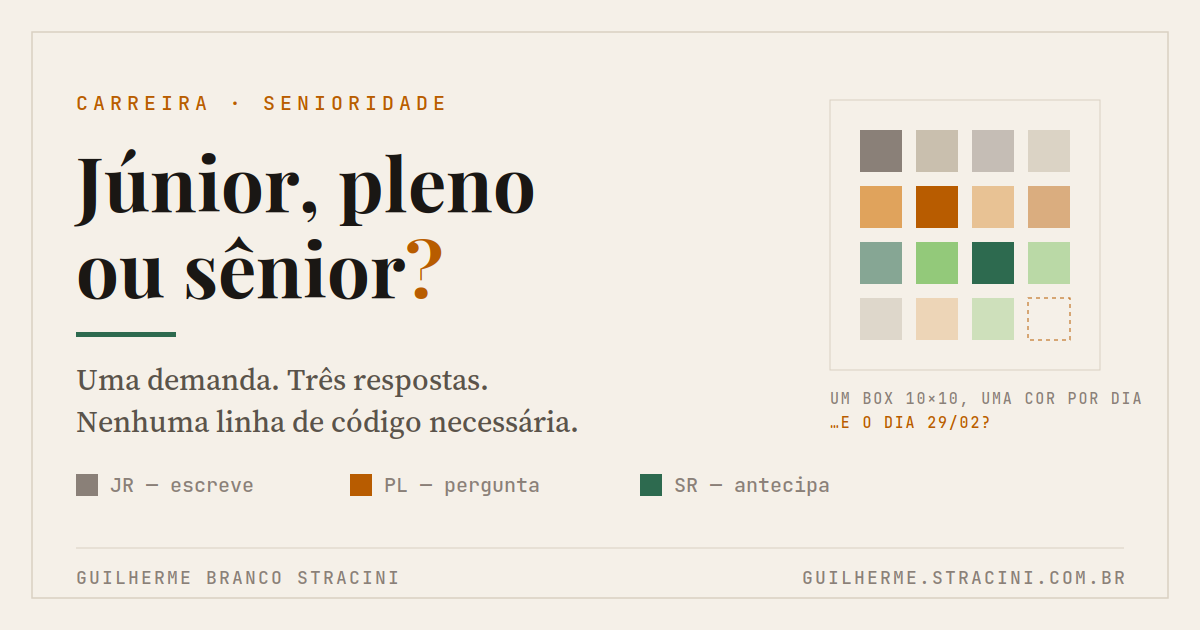
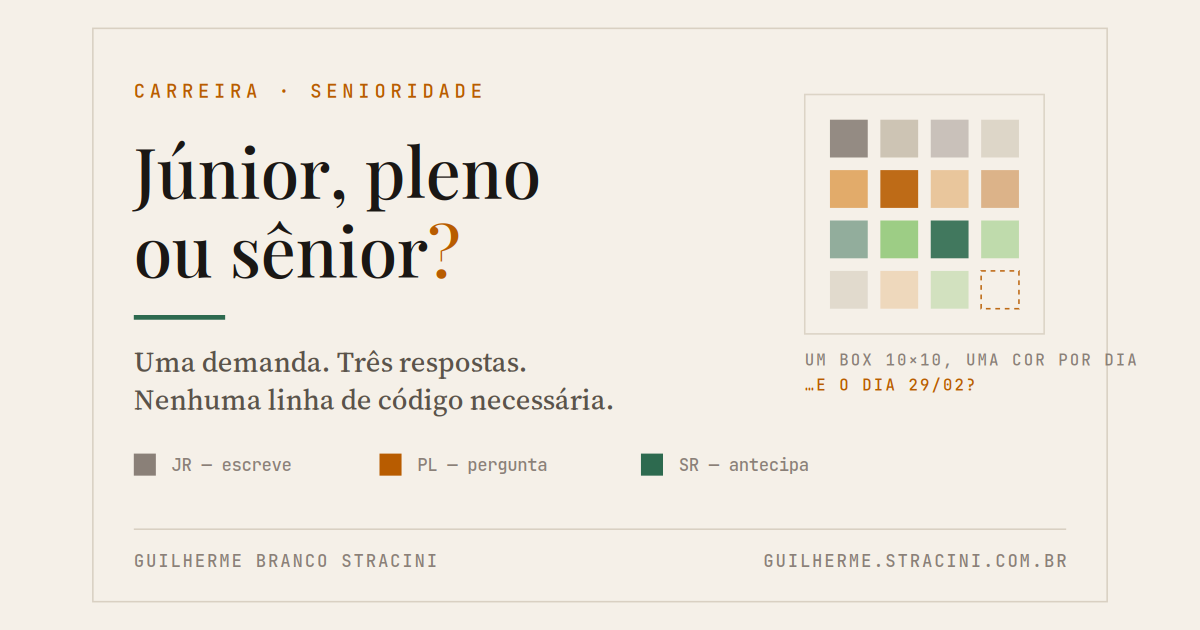
update: expand article with seniority bifurcation (#171)
* update: expand article with seniority bifurcation

Expand the existing article on distinguishing junior, mid-level,
and senior developers to include detailed information about
career paths beyond "senior." Introduce the concept of bifurcating
into individual contributor (IC) vs. management tracks, which
are often not clearly distinguished. Describe the progression
in each track, clarifying common industry titles and roles at
companies like Google and Amazon. Adjust the reading time
from 18 to 23 minutes to reflect the added content. Update
related images and infographics to align with new content,
ensuring clarity on the career pathway division. Include
additional references on tech career levels for further depth.

* refactor: clarify management path titles and responsibilities

Update several sections to better clarify the titles and
responsibilities within the engineering management (EM) path.
Adjust terms like "C-level" and define the scope of roles like
"VP of Engineering" and "Director of Engineering". Also, refine
the explanation for direct management entry in Brazil. These
changes improve the accuracy and readability of the paths
outlined, ensuring that they are more applicable across diverse
company structures. Additionally, update images to align with
textual content for a cohesive presentation.

* style: add Rouge syntax highlighting support

Enhance syntax highlighting by introducing styles for Markdown
[…]

diff --git a/assets/css/main.css b/assets/css/main.css
@@ -786,6 +786,56 @@ a.pagination-btn:hover { border-color: var(--accent); color: var(--accent); }
 .nu { color: #f78c6c; }
 .va { color: #eeffff; }
 
+/* Markdown fenced code blocks (kramdown + Rouge) */
+.article-inner .highlighter-rouge {
+  background: var(--code-bg);
+  border-radius: 10px;
+  overflow: hidden;
+  margin: 1.5rem 0;
+}
+.article-inner .highlighter-rouge .highlight {
+  overflow-x: auto;
+  margin: 0;
+}
+.article-inner .highlighter-rouge pre.highlight {
+  padding: 1.1rem 1.3rem;
+  margin: 0;
+  font-family: 'JetBrains Mono', monospace;
+  font-size: 0.78rem;
+  line-height: 1.65;
+  color: var(--code-text);
+}
+.article-inner .highlighter-rouge code { background: none; padding: 0; color: inherit; }
+
+/* Inline code */
+.article-inner code {
+  font-family: 'JetBrains Mono', monospace;
+  font-size: 0.85em;
+  background: var(--surface-warm);
+  color: var(--accent-warm);
+  padding: .15em .4em;
+  border-radius: 4px;
+}
+.article-inner pre code { background: none; padding: 0; color: inherit; border-radius: 0; }
+
+/* Rouge/Pygments token colors */
+.highlight .c, .highlight .c1, .highlight .cm, .highlight .cp, .highlight .cs { color: #546e7a; font-style: italic; }
+.highlight .k, .highlight .kc, .highlight .kd, .highlight .kn, .highlight .kp,
+.highlight .kr, .highlight .kt, .highlight .ow, .highlight .nt { color: #c792ea; }
+.highlight .nf, .highlight .nc, .highlight .nb, .highlight .bp, .highlight .nd { color: #82aaff; }
+.highlight .s, .highlight .s1, .highlight .s2, .highlight .sb, .highlight .sc,
+.highlight .sd, .highlight .se, .highlight .sh, .highlight .si, .highlight .sx,
+.highlight .sr, .highlight .ss, .highlight .na { color: #c3e88d; }
+.highlight .m, .highlight .mf, .highlight .mh, .highlight .mi, .highlight .mo,
+.highlight .il { color: #f78c6c; }
+.highlight .n, .highlight .nv, .highlight .vc, .highlight .vg, .highlight .vi,
+.highlight .no, .highlight .nl, .highlight .ni, .highlight .ne, .highlight .nn { color: #eeffff; }
+.highlight .o, .highlight .p { color: var(--code-text); }
+.highlight .err { color: #ff6b6b; }
+.highlight .gd { color: #ff6b6b; }
+.highlight .gi { color: #c3e88d; }
+.highlight .gh, .highlight .gu { color: #82aaff; font-weight: 700; }
+
 /* AT commands table */
 .at-table { width: 100%; border-collapse: collapse; margin: 1.5rem 0; font-size: 0.84rem; }
 .at-table th {

diff --git a/_posts/2026-08-30-junior-pleno-senior-diferencas-praticas-entrevista.md b/_posts/2026-08-30-junior-pleno-senior-diferencas-praticas-entrevista.md
@@ -436,7 +436,7 @@ Três leituras importam nesse desenho:
   </div>
   <div class="provider-card">
     <div class="provider-name">A entrada direta existe</div>
-    <div class="provider-detail">No Brasil é bem comum alguém entrar direto em gestão sem nunca ter sido IC. Funciona, mas cria um gestor que não consegue calibrar estimativa nem avaliar risco técnico — exatamente o que este artigo inteiro mede.</div>
+    <div class="provider-detail">No Brasil é bem comum alguém entrar direto em gestão sem nunca ter tido título de IC. Funciona bem em muita gente. O que pesa não é o título que a pessoa teve, e sim quanto contexto técnico ela consegue demonstrar — sem isso, calibrar estimativa e avaliar risco vira chute, tenha ela sido IC ou não.</div>
   </div>
 </div>
 
@@ -480,16 +480,18 @@ Três leituras importam nesse desenho:
     </tr>
   </thead>
   <tbody>
-    <tr><td>Coordenador / Tech Lead Manager</td><td>EM1</td><td>Engineering Manager</td><td>Um time</td></tr>
-    <tr><td>Gerente de Engenharia</td><td>EM2</td><td>Senior / Group EM</td><td>Gerentes e ICs sêniores</td></tr>
-    <tr><td>Diretor</td><td>EM3</td><td>Director of Engineering</td><td>Uma área inteira</td></tr>
-    <tr><td>VP / Diretoria executiva</td><td>EM4+</td><td>VP Eng, CTO, CIO, CISO, CDO</td><td>Empresa</td></tr>
+    <tr><td>Coordenador / Tech Lead Manager</td><td>EM1</td><td>Engineering Manager</td><td>Costuma ser um time</td></tr>
+    <tr><td>Gerente de Engenharia</td><td>EM2</td><td>Senior Engineering Manager</td><td>Um time grande ou alguns times</td></tr>
+    <tr><td>Gerente de grupo</td><td>EM2–EM3</td><td>Group Engineering Manager</td><td>Costuma incluir outros gerentes</td></tr>
+    <tr><td>Diretor de Engenharia</td><td>EM3</td><td>Director of Engineering</td><td>Uma ou mais áreas</td></tr>
+    <tr><td>VP de Engenharia</td><td>EM4+</td><td>VP Engineering, CTO</td><td>Toda a engenharia</td></tr>
+    <tr><td colspan="4"><em>Funções executivas vizinhas — <strong>não são degraus da escada de engenharia</strong>: CIO, CISO, CDO. São pares do CTO, com escopo próprio e linha de reporte que varia por empresa.</em></td></tr>
   </tbody>
 </table>
 
 <div class="callout callout-tip">
   <div class="callout-label">Sobre a nomenclatura em si</div>
-  As colunas "IC" e "EM" existem aqui para dar uma régua neutra — elas são convenção de mercado, não padrão oficial. Cada empresa usa a sua: L no Google, E na Meta, SDE na Amazon, ICT na Apple, números soltos na Microsoft. Se você está traduzindo seu currículo, o que importa é a <strong>coluna de escopo</strong>, não a sigla.
+  As colunas "IC" e "EM" existem aqui para dar uma régua neutra — elas são convenção de mercado, não padrão oficial. Cada empresa usa a sua: L no Google, E na Meta, SDE na Amazon, ICT na Apple, números soltos na Microsoft. A coluna de escopo também é <strong>indicativa, não fixa</strong> — o mesmo título de gestão cobre realidades bem diferentes conforme o tamanho da empresa. Se você está traduzindo seu currículo, descreva o escopo que você de fato teve; é isso que o outro lado consegue ler.
 </div>
 
 <h3>"Júnior" é um termo brasileiro?</h3>
